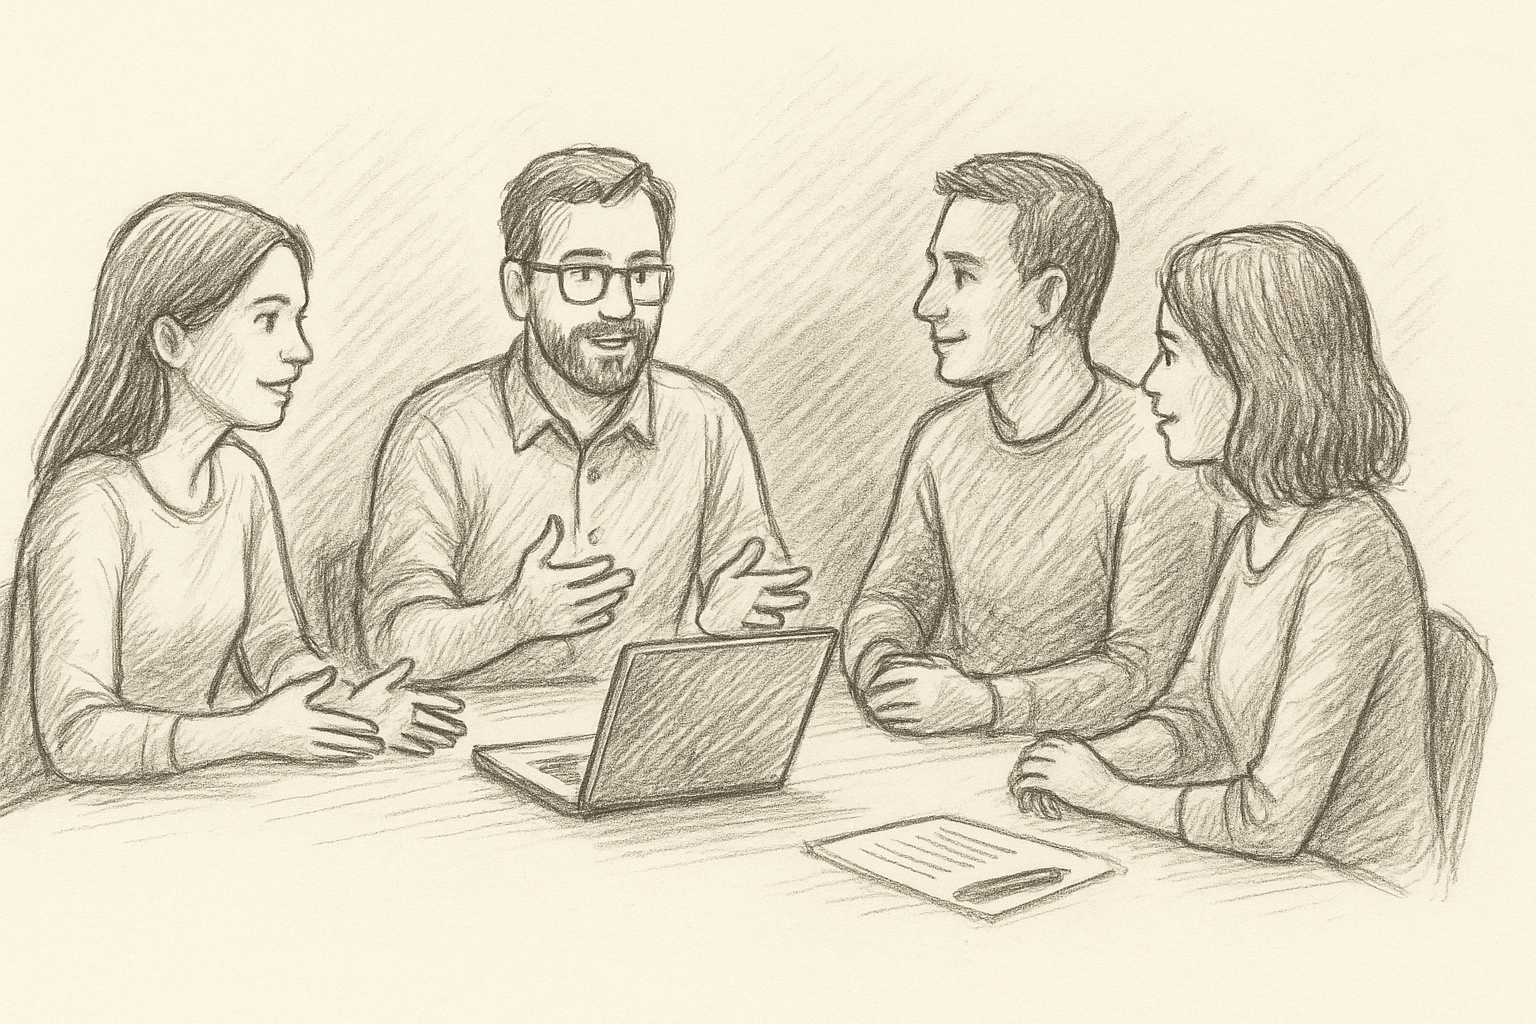
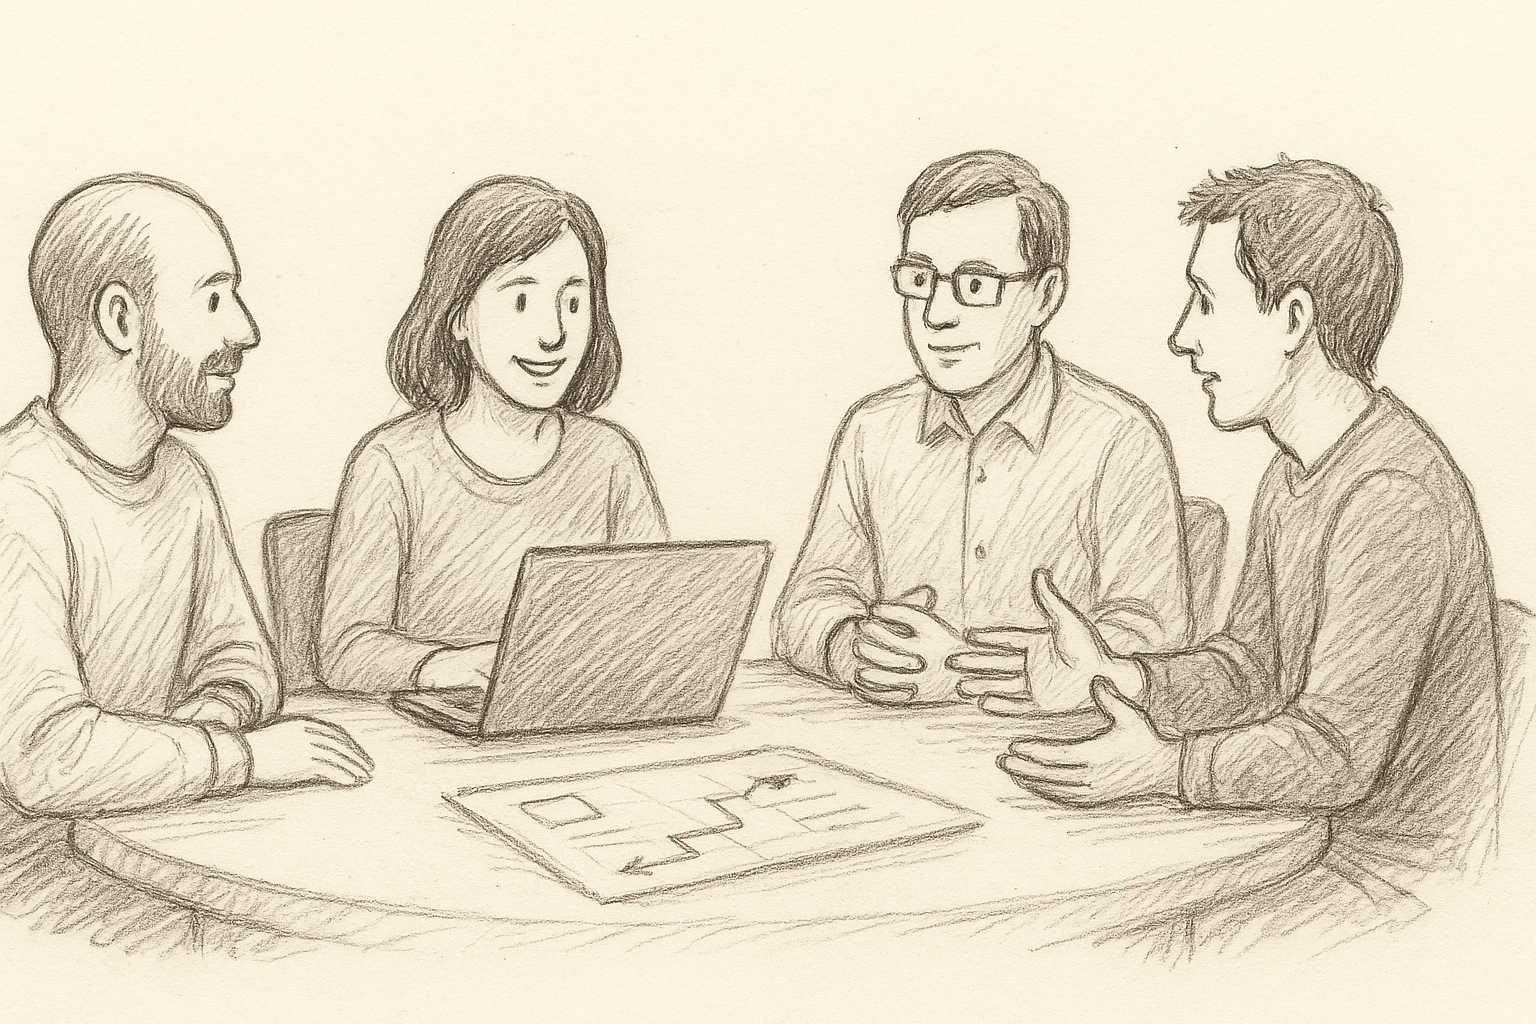
Removed animations for list items, replaced image for team table

diff --git a/presentation.md b/presentation.md
@@ -13,8 +13,9 @@ IMAGE PROMPT: A hand-drawn pencil illustration of an old brass compass lying on 
 
 # Real-world Experiences with AI-Assisted Development
 
-* Vibes, agents, and real code
-* Patterns *and* traps we've seen
+- Developer edition
+- Vibes, agents, and real code
+- Patterns *and* traps we've seen
 
 <!--
 NOTES:
@@ -38,8 +39,8 @@ IMAGE PROMPT: A hand-drawn pencil illustration of a lighthouse on a rocky shore,
 
 ## Why talk about this now?
 
-* AI is no longer a toy
-* Practices are still fuzzy
+- AI is no longer a toy
+- Practices are still fuzzy
 
 <!--
 NOTES:
@@ -63,9 +64,9 @@ IMAGE PROMPT: A hand-drawn pencil illustration of a sturdy bridge spanning a gap
 
 ## Where we’ll go
 
-* Quick framing
-* Patterns that keep you fast *and* safe
-* Anti-patterns that quietly hurt you
+- Quick framing
+- Patterns that keep you fast *and* safe
+- Anti-patterns that quietly hurt you
 
 <!--
 NOTES:
@@ -88,8 +89,9 @@ IMAGE PROMPT: Hand-drawn pencil illustration of a software developer and a small
 
 ## How we’re using AI today
 
-* Inline suggestions
-* Chat- and agent-based “vibe coding”
+- Inline suggestions
+- Chat and agent-based “vibe coding”
+- Spec-driven development?
 
 <!--
 NOTES:
@@ -112,8 +114,8 @@ IMAGE PROMPT: Hand-drawn pencil illustration of a hand holding a pencil over a s
 
 ## Pattern 1 – Start with a clear intent
 
-* One tight paragraph of *what* & *why*
-* Call out constraints explicitly
+- One tight paragraph of *what* & *why*
+- Call out constraints explicitly
 
 <!--
 NOTES:
@@ -141,8 +143,8 @@ IMAGE PROMPT: Hand-drawn pencil illustration of several simple building blocks s
 
 ## Pattern 2 – Keep asks small
 
-* One function, one test, one endpoint
-* Avoid “whole feature in one go”
+- One function, one test, one endpoint
+- Avoid “whole feature in one go”
 
 <!--
 NOTES:
@@ -169,8 +171,8 @@ IMAGE PROMPT: Hand-drawn pencil illustration of a simple lab scene: test tubes i
 
 ## Pattern 3 – Let tests & contracts steer
 
-* Start from tests, examples, or types
-* Use them as the AI’s fitness function
+- Start from tests, examples, or types
+- Use them as the AI’s fitness function
 
 <!--
 NOTES:
@@ -221,8 +223,8 @@ IMAGE PROMPT: Hand-drawn pencil illustration of a sculptor's hands using a small
 
 ## Pattern 4 – Refine, don't regenerate
 
-* AI gives you *almost* correct code
-* Iterate in small steps, don't start over
+- AI gives you *almost* correct code
+- Iterate in small steps, don't start over
 
 <!--
 NOTES:
@@ -272,8 +274,8 @@ IMAGE PROMPT: Hand-drawn pencil illustration of two sheets of paper side by side
 
 ## Pattern 5 – Keep changes reviewable
 
-* Small, coherent diffs
-* Explainable in one sentence
+- Small, coherent diffs
+- Explainable in one sentence
 
 <!--
 NOTES:
@@ -300,8 +302,8 @@ IMAGE PROMPT: Hand-drawn pencil illustration of a messy workbench with sketches,
 
 ## Pattern 6 – Spike with vibes, then sanitize
 
-* Vibe-code spikes are fine
-* Rewrite anything that survives
+- Vibe-code spikes are fine
+- Rewrite anything that survives
 
 <!--
 NOTES:
@@ -328,8 +330,8 @@ IMAGE PROMPT: Hand-drawn pencil illustration of a tangled ball of yarn with thre
 
 ## Anti-pattern 1 – Vague, multi-ask prompts
 
-* “Do everything” instructions
-* No context, no constraints
+- “Do everything” instructions
+- No context, no constraints
 
 <!--
 NOTES:
@@ -357,8 +359,8 @@ IMAGE PROMPT: Hand-drawn pencil illustration of a large excavator or bulldozer a
 
 ## Anti-pattern 2 – One-shot repo surgery
 
-* Agents touching dozens of files
-* Hard to review or roll back
+- Agents touching dozens of files
+- Hard to review or roll back
 
 <!--
 NOTES:
@@ -385,8 +387,8 @@ IMAGE PROMPT: Hand-drawn pencil illustration split in two: on the left a chaotic
 
 ## Anti-pattern 3 – Context stuffing
 
-* “Here’s 20 files, just in case”
-* Signal buried under noise
+- “Here’s 20 files, just in case”
+- Signal buried under noise
 
 <!--
 NOTES:
@@ -424,8 +426,8 @@ IMAGE PROMPT: Hand-drawn pencil illustration of a person walking in a small circ
 
 ## Anti-pattern 4 – Staying in a bad thread
 
-* Conversation stuck in wrong framing
-* You keep patching instead of restarting
+- Conversation stuck in wrong framing
+- You keep patching instead of restarting
 
 <!--
 NOTES:
@@ -461,8 +463,8 @@ IMAGE PROMPT: Hand-drawn pencil illustration of a prominent warning flag planted
 
 ## Anti-pattern 5 – Blind copy-paste
 
-* Code pasted without review
-* No tests, no run, no understanding
+- Code pasted without review
+- No tests, no run, no understanding
 
 <!--
 NOTES:
@@ -502,8 +504,8 @@ IMAGE PROMPT: Hand-drawn pencil illustration of a complex control panel with man
 
 ## Anti-pattern 6 – Over-trusting agents
 
-* No boundaries on what they can touch
-* Tests, config, commits all on autopilot
+- No boundaries on what they can touch
+- Tests, config, commits all on autopilot
 
 <!--
 NOTES:
@@ -531,8 +533,8 @@ IMAGE PROMPT: Hand-drawn pencil illustration of a few puzzle pieces coming toget
 
 ## Putting it together
 
-* Use AI where speed helps
-* Keep humans owning intent & acceptance
+- Use AI where speed helps
+- Keep humans owning intent & acceptance
 
 <!--
 NOTES:
@@ -556,8 +558,8 @@ IMAGE PROMPT: Hand-drawn pencil illustration of three or four people sitting aro
 
 ## Team agreements matter
 
-* Review practices for AI-assisted code
-* Support for developers at different levels
+- Review practices for AI-assisted code
+- Support for developers at different levels
 
 <!--
 NOTES:
@@ -602,8 +604,8 @@ IMAGE PROMPT: Hand-drawn pencil illustration of a clipboard with a short checkli
 
 ## What to try next week
 
-* Pick one pattern → add to team practice
-* Call out one anti-pattern in reviews
+- Pick one pattern → add to team practice
+- Call out one anti-pattern in reviews
 
 <!--
 NOTES:
@@ -654,7 +656,7 @@ IMAGE PROMPT: Hand-drawn pencil illustration of two people standing and talking,
 
 ## Q & A
 
-* Stories, questions, disagreements welcome
+- Stories, questions, disagreements welcome
 
 <!--
 NOTES:
